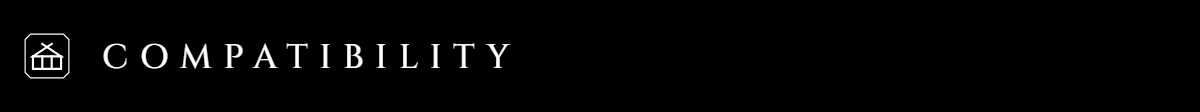
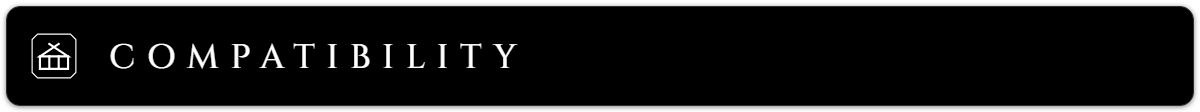
Press kit: frame description images, add Nexus thumbnail
Description images (section headers, features, banner and steps copies)
render as a rounded black card with a hairline edge and a soft shadow on
a transparent canvas, so they sit on the Nexus page instead of as hard
black boxes. The description uses the transparent divider.

New dovastash-thumbnail-1280x720.png is the Nexus Primary image: emblem
and name only, readable at tile size.

Changed region(s): [[0.0, 0.0, 1.0, 1.0]]

diff --git a/presskit/src/common.js b/presskit/src/common.js
@@ -11,8 +11,24 @@ window.q = function (name, def) {
   b.style.visibility = "hidden";
   // fixed canvas size (render.py passes the target pixel size)
   if (q("w", "")) {
-    b.style.setProperty("--W", q("w") + "px");
-    b.style.setProperty("--H", q("h") + "px");
+    var w = +q("w"), h = +q("h");
+    if (q("frame", "")) {
+      // Description variant: a rounded black card with a hairline edge and a soft shadow
+      // on a transparent canvas, so it sits on the Nexus page instead of a hard rectangle.
+      // Sizes scale with the canvas so every image shows the same edge once Nexus fits it
+      // to the description width.
+      var m = Math.round(w / 200);
+      b.classList.add("framed");
+      b.style.width = w + "px";
+      b.style.height = h + "px";
+      b.style.setProperty("--fm", m + "px");
+      b.style.setProperty("--fr", Math.round(w * 0.0115) + "px");
+      b.style.setProperty("--fb", Math.max(1, Math.round(w / 1200)) + "px");
+      w -= 2 * m;
+      h -= 2 * m;
+    }
+    b.style.setProperty("--W", w + "px");
+    b.style.setProperty("--H", h + "px");
   }
   if (q("bg", "") === "transparent") {
     document.addEventListener("DOMContentLoaded", function () {

diff --git a/presskit/src/thumbnail.html b/presskit/src/thumbnail.html
@@ -1,0 +1,22 @@
+<!doctype html>
+<html><head><meta charset="utf-8"><title>nexus thumbnail</title>
+<link rel="stylesheet" href="style.css">
+<script src="common.js"></script>
+<style>
+  /* Nexus mod tile (shown at about 320x180, cropped to fill): emblem and name only, large,
+     everything inside the centre 85% so a crop can't cut it. Opaque; the tile rounds its own corners. */
+  body { position: relative; }
+  .stack {
+    position: absolute; inset: 0;
+    display: flex; flex-direction: column; align-items: center; justify-content: center;
+  }
+  .emblem { margin-bottom: 44px; }
+  .wordmark { font-size: 88px; }
+</style>
+</head>
+<body>
+<div class="stack">
+  <div class="emblem"><script>document.write(mark(360, 9, 4.5));</script></div>
+  <div class="wordmark">DOVA STASH</div>
+</div>
+</body></html>

diff --git a/presskit/src/style.css b/presskit/src/style.css
@@ -64,6 +64,16 @@ body {
 }
 body.transparent { background: transparent; }
 
+/* ?frame=1 (see common.js): the card sits inset on a transparent canvas */
+/* a non-"none" image stops body's black from propagating to the whole canvas */
+html.framed { background: transparent linear-gradient(transparent, transparent); }
+html.framed body {
+  margin: var(--fm);
+  border: var(--fb) solid #303030;
+  border-radius: var(--fr);
+  box-shadow: 0 1px calc(var(--fm) * 0.8) rgba(0, 0, 0, 0.5);
+}
+
 .wordmark {
   font-family: var(--f-title);
   font-weight: 600;

diff --git a/presskit/src/render.py b/presskit/src/render.py
@@ -63,14 +63,19 @@ ICONS = ["any_home", "auto_sort", "templates", "learns", "safe", "menu", "vr", "
 def jobs():
     """(page, query, width, height, output path under presskit/, transparent)"""
     j = [
+        ("thumbnail.html", {}, 1280, 720, "nexus/dovastash-thumbnail-1280x720.png", False),
         ("keyart.html", {}, 1920, 1080, "nexus/dovastash-primary-1920x1080.png", False),
         ("banner.html", {}, 1920, 480, "nexus/dovastash-header-1920x480.png", False),
-        ("features.html", {}, 1200, 700, "nexus/dovastash-features-1200x700.png", False),
+        ("features.html", {"frame": 1}, 1200, 700, "nexus/dovastash-features-1200x700.png", True),
         ("gallery_how_it_works.html", {}, 1920, 1080, "nexus/dovastash-gallery-how-it-works-1920x1080.png", False),
         ("gallery_templates.html", {}, 1920, 1080, "nexus/dovastash-gallery-templates-1920x1080.png", False),
         ("gallery_homes.html", {}, 1920, 1080, "nexus/dovastash-gallery-homes-1920x1080.png", False),
         ("gallery_categories.html", {}, 1920, 1080, "nexus/dovastash-gallery-categories-1920x1080.png", False),
         ("gallery_safety.html", {}, 1920, 1080, "nexus/dovastash-gallery-safety-1920x1080.png", False),
+        # Description variants of the banner and the steps: framed so they blend into the page.
+        ("banner.html", {"frame": 1}, 1920, 480, "nexus/dovastash-header-description-1920x480.png", True),
+        ("gallery_how_it_works.html", {"frame": 1}, 1920, 1080,
+         "nexus/dovastash-how-it-works-description-1920x1080.png", True),
         ("divider.html", {}, 1200, 40, "nexus/dovastash-divider-1200x40.png", False),
         ("divider.html", {"bg": "transparent"}, 1200, 40, "nexus/dovastash-divider-transparent-1200x40.png", True),
         ("social.html", {}, 1280, 640, "nexus/dovastash-social-1280x640.png", False),
@@ -81,8 +86,8 @@ def jobs():
     ]
     # Section headers, numbered in the order the description uses them.
     for i, key in enumerate(SECTIONS, 1):
-        j.append(("header.html", {"title": HEADERS[key]}, 1200, 112,
-                  f"nexus/section-{i:02d}-{key.replace('_', '-')}.png", False))
+        j.append(("header.html", {"title": HEADERS[key], "frame": 1}, 1200, 112,
+                  f"nexus/section-{i:02d}-{key.replace('_', '-')}.png", True))
     for name in ICONS:
         j.append(("icon.html", {"name": name}, 256, 256, f"nexus/icon-{name.replace('_', '-')}-256.png", False))
     return j

diff --git a/presskit/README.md b/presskit/README.md
@@ -19,21 +19,26 @@ The changelog is [`../CHANGELOG.md`](../CHANGELOG.md).
 
 ## Nexus page images
 
-Upload these on the Nexus **Images** tab. Make the primary image the mod's **Primary image**.
+Upload these on the Nexus **Images** tab. Set the thumbnail as the mod's **Primary image**; Nexus uses it
+for the mod tile in search and browse.
 
 | Image | Size | Use |
 |---|---|---|
-| [`dovastash-primary-1920x1080.png`](nexus/dovastash-primary-1920x1080.png) | 1920×1080 | Primary image / thumbnail |
-| [`dovastash-gallery-how-it-works-1920x1080.png`](nexus/dovastash-gallery-how-it-works-1920x1080.png) | 1920×1080 | Gallery: the three steps (also in the description) |
+| [`dovastash-thumbnail-1280x720.png`](nexus/dovastash-thumbnail-1280x720.png) | 1280×720 | **Nexus thumbnail** (set as Primary image). Emblem and name only, readable at tile size and safe under the tile's crop. |
+| [`dovastash-primary-1920x1080.png`](nexus/dovastash-primary-1920x1080.png) | 1920×1080 | Gallery: emblem, name and tagline |
+| [`dovastash-gallery-how-it-works-1920x1080.png`](nexus/dovastash-gallery-how-it-works-1920x1080.png) | 1920×1080 | Gallery: the three steps |
 | [`dovastash-gallery-templates-1920x1080.png`](nexus/dovastash-gallery-templates-1920x1080.png) | 1920×1080 | Gallery: a template applied to a home's chests |
 | [`dovastash-gallery-homes-1920x1080.png`](nexus/dovastash-gallery-homes-1920x1080.png) | 1920×1080 | Gallery: the 22 included templates |
 | [`dovastash-gallery-categories-1920x1080.png`](nexus/dovastash-gallery-categories-1920x1080.png) | 1920×1080 | Gallery: the default categories |
 | [`dovastash-gallery-safety-1920x1080.png`](nexus/dovastash-gallery-safety-1920x1080.png) | 1920×1080 | Gallery: never lose an item |
 | [`dovastash-features-1200x700.png`](nexus/dovastash-features-1200x700.png) | 1200×700 | Description: the six key features (optional gallery image) |
-| [`dovastash-header-1920x480.png`](nexus/dovastash-header-1920x480.png) | 1920×480 | Description banner / page header |
+| [`dovastash-header-1920x480.png`](nexus/dovastash-header-1920x480.png) | 1920×480 | Nexus page header slot |
+| [`dovastash-header-description-1920x480.png`](nexus/dovastash-header-description-1920x480.png) | 1920×480 | Description: the banner, framed |
+| [`dovastash-how-it-works-description-1920x1080.png`](nexus/dovastash-how-it-works-description-1920x1080.png) | 1920×1080 | Description: the three steps, framed |
 | [`dovastash-social-1280x640.png`](nexus/dovastash-social-1280x640.png) | 1280×640 | GitHub: Settings → Social preview |
 
 <p>
+  <img src="nexus/dovastash-thumbnail-1280x720.png" width="49%">
   <img src="nexus/dovastash-primary-1920x1080.png" width="49%">
   <img src="nexus/dovastash-gallery-how-it-works-1920x1080.png" width="49%">
   <img src="nexus/dovastash-gallery-templates-1920x1080.png" width="49%">
@@ -49,6 +54,10 @@ Upload these on the Nexus **Images** tab. Make the primary image the mod's **Pri
 The BBCode file already uses these. They are 1200×112 with the emblem as a left-aligned bullet, plus a 1200×40 divider (and a transparent
 divider for non-black backgrounds).
 
+Everything the description embeds is **framed**: a black card with rounded corners, a hairline gray edge and a soft
+shadow on a transparent canvas, so it sits on the Nexus page's gray instead of as a hard black box. Any page
+renders framed with `?frame=1` (see `common.js`).
+
 ![Features](nexus/section-01-features.png)
 ![How it works](nexus/section-02-how-it-works.png)
 ![Templates](nexus/section-03-templates.png)
@@ -61,7 +70,7 @@ divider for non-black backgrounds).
 ![Permissions](nexus/section-10-permissions.png)
 ![Credits](nexus/section-11-credits.png)
 ![Changelog](nexus/section-12-changelog.png)
-![Divider](nexus/dovastash-divider-1200x40.png)
+![Divider](nexus/dovastash-divider-transparent-1200x40.png)
 
 ## Feature icons
 
@@ -108,7 +117,8 @@ They aren't uploaded to Nexus as they are.
 
 | Token | Value | Use |
 |---|---|---|
-| Background | `#000000` | Every canvas |
+| Background | `#000000` | Every canvas (framed description images: a black card on a transparent canvas) |
+| Frame edge | `#303030`, 1 px per 1200 px of width | The hairline around framed images |
 | Foreground | `#ffffff` | Wordmark, titles, icons, emblem |
 | Grays | `#d4d4d4` `#9c9c9c` `#6a6a6a` `#3c3c3c` `#1e1e1e` | Taglines, captions, quiet labels, rules, faint separators |
 | Type | Cinzel (titles), Jost (text) | Wide-tracked capitals; both SIL OFL, in `src/fonts/` |

diff --git a/presskit/nexus-fields.md b/presskit/nexus-fields.md
@@ -18,7 +18,7 @@ asked for.
 | Adult content | **No** |
 | Brief overview (summary) | contents of `nexus-summary.txt` (the limit is 350 characters) |
 | Detailed description | contents of `nexus-description.bbcode.txt` |
-| Primary image | `keyart_1920x1080.png` |
+| Primary image | `dovastash-thumbnail-1280x720.png` |
 | Is this a translation? | No |
 | Uses assets from other mods? | No. The bundled SKSE Menu Framework API header is a code header, not an asset; it is credited and LGPL-2.1. |
 
@@ -160,19 +160,23 @@ Upload order, Images tab (files in `presskit/nexus/`):
 
 | # | File | Where it's used |
 |---|---|---|
-| 1 | `dovastash-primary-1920x1080.png` | **Primary image** (thumbnail and the first gallery image) |
-| 2 | `dovastash-gallery-how-it-works-1920x1080.png` | Gallery; also embedded in the description |
-| 3 | `dovastash-gallery-templates-1920x1080.png` | Gallery |
-| 4 | `dovastash-gallery-homes-1920x1080.png` | Gallery |
-| 5 | `dovastash-gallery-categories-1920x1080.png` | Gallery |
-| 6 | `dovastash-gallery-safety-1920x1080.png` | Gallery |
-| 7 | `dovastash-features-1200x700.png` | Gallery (optional); embedded in the description |
+| 1 | `dovastash-thumbnail-1280x720.png` | **Primary image**: the mod tile in search and browse. Emblem and name only, readable at tile size and safe under the tile's crop |
+| 2 | `dovastash-primary-1920x1080.png` | Gallery: emblem, name and tagline |
+| 3 | `dovastash-gallery-how-it-works-1920x1080.png` | Gallery |
+| 4 | `dovastash-gallery-templates-1920x1080.png` | Gallery |
+| 5 | `dovastash-gallery-homes-1920x1080.png` | Gallery |
+| 6 | `dovastash-gallery-categories-1920x1080.png` | Gallery |
+| 7 | `dovastash-gallery-safety-1920x1080.png` | Gallery |
+| 8 | `dovastash-features-1200x700.png` | Gallery (optional); embedded in the description |
 
 **Embedded in the description only.** Don't put these in the gallery, because they would clutter it.
 The description already loads them from GitHub:
 
-- `dovastash-header-1920x480.png`
-- `dovastash-divider-1200x40.png`
+- `dovastash-header-description-1920x480.png` and `dovastash-how-it-works-description-1920x1080.png`:
+  framed copies of the banner and the steps image (rounded corners, a hairline edge, a soft shadow)
+  so they sit on the page instead of as hard black boxes. The section headers and the features image
+  are framed the same way.
+- `dovastash-divider-transparent-1200x40.png`
 - `section-01-features.png` to `section-12-changelog.png`: all 12 section headers.
 
 **Not used on the mod page:**
